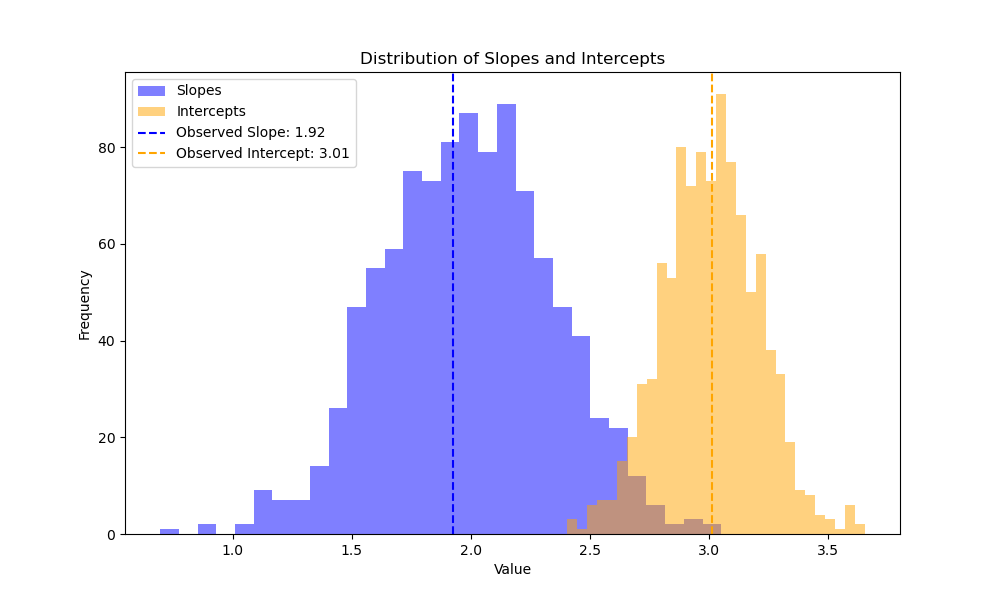
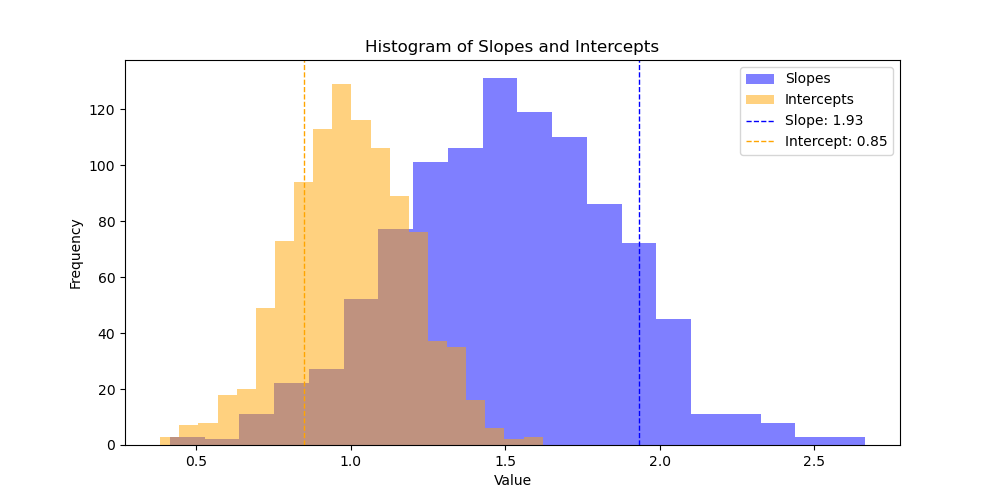
upds

diff --git a/app.py b/app.py
@@ -1,50 +1,44 @@
-import os
 from flask import Flask, render_template, request, url_for, session
 import numpy as np
 import matplotlib
+
 matplotlib.use("Agg")
 import matplotlib.pyplot as plt
 from sklearn.linear_model import LinearRegression
-from scipy import stats
 
 app = Flask(__name__)
 app.secret_key = "your_secret_key_here"  # Replace with your own secret key, needed for session management
 
-# Create static directory if it doesn't exist
-static_dir = os.path.join(os.path.dirname(os.path.abspath(__file__)), 'static')
-if not os.path.exists(static_dir):
-    os.makedirs(static_dir)
 
 def generate_data(N, mu, beta0, beta1, sigma2, S):
     # Generate data and initial plots
 
     # TODO 1: Generate a random dataset X of size N with values between 0 and 1
-    X = np.random.uniform(0, 1, N)
-    error = np.random.normal(0, np.sqrt(sigma2), N)
+    X = np.random.rand(N)  # Replace with code to generate random values for X
 
     # TODO 2: Generate a random dataset Y using the specified beta0, beta1, mu, and sigma2
-    # Y = beta0 + beta1 * X + mu + error term
-    Y = beta0 + beta1 * X + mu + error
+    Y = beta0 + beta1 * X + np.random.normal(mu, np.sqrt(sigma2), N)
+    # Replace with code to generate Y
 
     # TODO 3: Fit a linear regression model to X and Y
-    X_reshaped = X.reshape(-1, 1)
     model = LinearRegression()  # Initialize the LinearRegression model
-    model.fit(X_reshaped, Y)  # Fit the model to X and Y
+    model.fit(X.reshape(-1, 1), Y)  # Fit the model to X and Y
     slope = model.coef_[0]  # Extract the slope (coefficient) from the fitted model
     intercept = model.intercept_  # Extract the intercept from the fitted model
 
     # TODO 4: Generate a scatter plot of (X, Y) with the fitted regression line
-    plot1_path = "static/plot1.png"
-    plt.figure(figsize=(10, 6))
-    plt.scatter(X, Y, color='blue', alpha=0.5, label='Data points')
-    plt.plot(X, model.predict(X_reshaped), color='red', label='Regression line')
-    plt.xlabel('X')
-    plt.ylabel('Y')
-    plt.title(f'Scatter Plot with Regression Line\nY = {intercept:.2f} + {slope:.2f}X')
+    plt.figure(figsize=(8, 6))
+    plt.scatter(X, Y, color="blue", label="Data Points")
+    plt.plot(X, model.predict(X.reshape(-1, 1)), color="red", label="Fitted Line")
+    plt.xlabel("X")
+    plt.ylabel("Y")
+    plt.title(f"Linear Fit: y = {intercept:.2f} + {slope:.2f}x")
     plt.legend()
-    plot1_path = os.path.join(static_dir, 'plot1.png')
+    plot1_path = "static/plot1.png"
     plt.savefig(plot1_path)
     plt.close()
+
+    plot1_path = "static/plot1.png"
     # Replace with code to generate and save the scatter plot
 
     # TODO 5: Run S simulations to generate slopes and intercepts
@@ -53,37 +47,37 @@ def generate_data(N, mu, beta0, beta1, sigma2, S):
 
     for _ in range(S):
         # TODO 6: Generate simulated datasets using the same beta0 and beta1
-        X_sim = np.random.uniform(0, 1, N)  # Replace with code to generate simulated X values
-        error_sim = np.random.normal(0, np.sqrt(sigma2), N)
-        Y_sim = beta0 + beta1 * X_sim + mu + error_sim  # Replace with code to generate simulated Y values
+        X_sim = np.random.rand(N)  # Replace with code to generate simulated X values
+        Y_sim = beta0 + beta1 * X_sim + np.random.normal(mu, np.sqrt(sigma2), N) # Replace with code to generate simulated Y values
 
         # TODO 7: Fit linear regression to simulated data and store slope and intercept
-        X_sim_reshaped = X_sim.reshape(-1, 1)
-        sim_model = LinearRegression()
-        sim_model.fit(X_sim_reshaped, Y_sim)
-        
-        slopes.append(sim_model.coef_[0])
-        intercepts.append(sim_model.intercept_)
+        sim_model = LinearRegression()  # Replace with code to fit the model
+        sim_model.fit(X_sim.reshape(-1, 1), Y_sim) 
+        sim_slope = sim_model.coef_[0]  # Extract slope from sim_model
+        sim_intercept = sim_model.intercept_  # Extract intercept from sim_model
+
+        slopes.append(sim_slope)
+        intercepts.append(sim_intercept)
 
     # TODO 8: Plot histograms of slopes and intercepts
-    plt.figure(figsize=(10, 6))
-    plt.hist(slopes, bins=30, alpha=0.5, color="blue", label="Slopes")
-    plt.hist(intercepts, bins=30, alpha=0.5, color="orange", label="Intercepts")
-    plt.axvline(slope, color="blue", linestyle="--", label=f"Observed Slope: {slope:.2f}")
-    plt.axvline(intercept, color="orange", linestyle="--", label=f"Observed Intercept: {intercept:.2f}")
-    plt.title("Distribution of Slopes and Intercepts")
+    plt.figure(figsize=(10, 5))
+    plt.hist(slopes, bins=20, alpha=0.5, color="blue", label="Slopes")
+    plt.hist(intercepts, bins=20, alpha=0.5, color="orange", label="Intercepts")
+    plt.axvline(slope, color="blue", linestyle="--", linewidth=1, label=f"Slope: {slope:.2f}")
+    plt.axvline(intercept, color="orange", linestyle="--", linewidth=1, label=f"Intercept: {intercept:.2f}")
+    plt.title("Histogram of Slopes and Intercepts")
     plt.xlabel("Value")
     plt.ylabel("Frequency")
     plt.legend()
-    plot2_path = os.path.join(static_dir, 'plot2.png')
+    plot2_path = "static/plot2.png"
     plt.savefig(plot2_path)
     plt.close()
     # Replace with code to generate and save the histogram plot
 
     # TODO 9: Return data needed for further analysis, including slopes and intercepts
     # Calculate proportions of slopes and intercepts more extreme than observed
-    slope_more_extreme = sum(s > slope for s in slopes) / S
-    intercept_more_extreme = sum(i < intercept for i in intercepts) / S
+    slope_more_extreme = sum(s > slope for s in slopes) / S  # Replace with code to calculate proportion of slopes more extreme than observed
+    intercept_extreme = sum(i < intercept for i in intercepts) / S  # Replace with code to calculate proportion of intercepts more extreme than observed
 
     # Return data needed for further analysis
     return (
@@ -190,40 +184,39 @@ def hypothesis_test():
         hypothesized_value = beta0
 
     # TODO 10: Calculate p-value based on test type
-    if test_type == ">":
-        p_value = np.mean(simulated_stats >= observed_stat)
+    p_value = 0
+    if test_type == "!=":
+        p_value = np.sum(np.abs(simulated_stats - hypothesized_value) >= np.abs(observed_stat - hypothesized_value)) / S
+    elif test_type == ">":
+        p_value = np.sum(simulated_stats >= observed_stat) / S
     elif test_type == "<":
-        p_value = np.mean(simulated_stats <= observed_stat)
-    else:  # "!="
-        p_value = 2 * min(
-            np.mean(simulated_stats >= observed_stat),
-            np.mean(simulated_stats <= observed_stat)
-        )
+        p_value = np.sum(simulated_stats <= observed_stat) / S
 
+
+    fun_message = ""
     # TODO 11: If p_value is very small (e.g., <= 0.0001), set fun_message to a fun message
-    plt.figure(figsize=(10, 6))
-    plt.hist(simulated_stats, bins=30, alpha=0.7, color='lightblue', 
-             label='Simulated Statistics')
-    plt.axvline(observed_stat, color='red', linestyle='--', 
-                label=f'Observed {parameter}: {observed_stat:.4f}')
-    plt.axvline(hypothesized_value, color='blue', 
-                label=f'Hypothesized {parameter}: {hypothesized_value:.4f}')
-    plt.title(f'Hypothesis Test for {parameter.capitalize()}')
-    plt.xlabel(parameter.capitalize())
-    plt.ylabel('Frequency')
-    plt.legend()
-    plot3_path = os.path.join(static_dir, 'plot3.png')
-    plt.savefig(plot3_path)
-    plt.close()
+    if p_value <= 0.0001:
+        fun_message = "The p_value is very small (<= 0.0001)"
 
-    fun_message = "Wow! You've found an extremely rare event!" if p_value <= 0.0001 else None
+    # TODO 12: Plot histogram of simulated statistics
+    plt.figure(figsize=(10, 5))
+    plt.hist(simulated_stats, bins=20, alpha=0.5, color="gray")
+    plt.axvline(observed_stat, color="red", linestyle="--", linewidth=2, label=f"Observed: {observed_stat:.2f}")
+    plt.axvline(hypothesized_value, color="blue", linestyle="--", linewidth=2, label=f"Hypothesis: {hypothesized_value:.2f}")
+    plt.legend()
+    plt.title("Distribution of Simulated Statistics with Observed Value")
+    plt.xlabel("Value")
+    plt.ylabel("Frequency")
+    plt.savefig("static/plot3.png")
+    plt.close()
+    # Replace with code to generate and save the plot
 
     # Return results to template
     return render_template(
         "index.html",
         plot1="static/plot1.png",
         plot2="static/plot2.png",
-        plot3=plot3_path,
+        plot3="static/plot3.png",
         parameter=parameter,
         observed_stat=observed_stat,
         hypothesized_value=hypothesized_value,
@@ -253,7 +246,7 @@ def confidence_interval():
     intercepts = session.get("intercepts")
 
     parameter = request.form.get("parameter")
-    confidence_level = float(request.form.get("confidence_level"))
+    confidence_level = float(request.form.get("confidence_level")) / 100
 
     # Use the slopes or intercepts from the simulations
     if parameter == "slope":
@@ -267,14 +260,12 @@ def confidence_interval():
 
     # TODO 14: Calculate mean and standard deviation of the estimates
     mean_estimate = np.mean(estimates)
-    std_estimate = np.std(estimates, ddof=1)
-    alpha = 1 - (confidence_level / 100)
-    critical_value = stats.t.ppf(1 - alpha/2, len(estimates)-1)
+    std_estimate = np.std(estimates)
 
     # TODO 15: Calculate confidence interval for the parameter estimate
     # Use the t-distribution and confidence_level
-    ci_lower = mean_estimate - critical_value * std_estimate / np.sqrt(len(estimates))
-    ci_upper = mean_estimate + critical_value * std_estimate / np.sqrt(len(estimates))
+    ci_lower = np.percentile(estimates, (1 - confidence_level) / 2 * 100)
+    ci_upper = np.percentile(estimates, (1 + confidence_level) / 2 * 100)
 
     # TODO 16: Check if confidence interval includes true parameter
     includes_true = ci_lower <= true_param <= ci_upper
@@ -283,28 +274,25 @@ def confidence_interval():
     # Plot the mean estimate as a colored point which changes if the true parameter is included
     # Plot the confidence interval as a horizontal line
     # Plot the true parameter value
-    plt.figure(figsize=(10, 6))
-    plt.scatter(estimates, np.zeros_like(estimates), color='gray', alpha=0.5,
-                label='Simulated Estimates')
-    plt.scatter(mean_estimate, 0, color='blue' if includes_true else 'red', s=100,
-                label='Mean Estimate')
-    plt.axvline(true_param, color='green', linestyle='--', label='True Parameter')
-    plt.hlines(y=0, xmin=ci_lower, xmax=ci_upper, color='blue' if includes_true else 'red',
-              linewidth=2, label=f'{confidence_level}% CI')
-    plt.title(f'{confidence_level}% Confidence Interval for {parameter.capitalize()}')
-    plt.xlabel(f'{parameter.capitalize()} Estimate')
+    plt.figure(figsize=(10, 5))
+    plt.scatter(estimates, [0]*S, color="gray", alpha=0.5, label="Simulated Estimates")
+    plt.scatter(mean_estimate, 0, color="blue", s=100, label="Mean Estimate")
+    plt.hlines(0, ci_lower, ci_upper, color="blue", linewidth=5, label=f"{confidence_level*100:.1f}% Confidence Interval")
+    plt.axvline(true_param, color="green", linestyle="--", linewidth=2, label="True Slope")
+    plt.xlabel("Slope Estimate")
+    plt.title(f"{confidence_level*100:.1f}% Confidence Interval for Slope (Mean Estimate)")
     plt.legend()
-    plt.gca().set_yticks([])
-    plot4_path = os.path.join(static_dir, 'plot4.png')
-    plt.savefig(plot4_path)
+    plt.savefig("static/plot4.png")
     plt.close()
+
+    # Write code here to generate and save the plot
 
     # Return results to template
     return render_template(
         "index.html",
         plot1="static/plot1.png",
         plot2="static/plot2.png",
-        plot4=plot4_path,
+        plot4="static/plot4.png",
         parameter=parameter,
         confidence_level=confidence_level,
         mean_estimate=mean_estimate,
